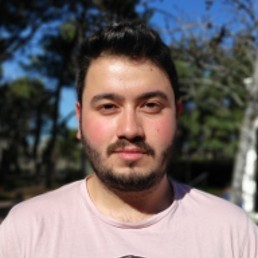
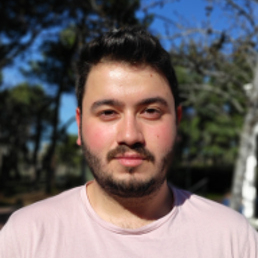
Feat content update 2024 feb 07 (#45)

diff --git a/content/en/team/_index.md b/content/en/team/_index.md
@@ -15,16 +15,17 @@ hero:
 
 ## Visiting and Former Members
 
-- Pablo González Martínez – MSc student in Bioinformatics (ISCIII) since May 2023. **Ongoing**.
-- Marcos Rubio Fernández – MSc student in Bioinformatics (ISCIII) since May 2023. **Ongoing**.
-- David Cáceres Gallardo – Visitor (Hospital 12 de Octubre) since 2023. **Ongoing**.
-- Gabriel Piedrafita Fernández – Visiting researcher (UCM) since 2019. **Ongoing**.
-- Carlos Carretero – Visitor PhD student (Hospital 12 de Octubre, UAM) since 2017. **Ongoing**.
-- María González Bermejo – BSc Biochemistry (UAM) – MSc student in Bioinformatics (UAM) since 2023. **Ongoing**.
-- Angela Surya – Summer student from June 2023 to August 2023.
+- José Manuel Lamas Pérez – MSc student in Artificial Inteligence (UPM) since February 2024. **Ongoing**
+- Gabriel Piedrafita Fernández – Visiting researcher (UCM) since 2019. **Ongoing**
+- Carlos Carretero – Visitor PhD student (Hospital Universitario 12 de Octubre, UAM) since 2017. **Ongoing**
+- Marcos Rubio Fernández – MSc student in Bioinformatics (ISCIII) from May 2023 to January 2024 – Currently in the Hospital Universitario 12 de Octubre
+- Pablo González Martínez – MSc student in Bioinformatics (ISCIII) from May 2023 to January 2024 – Currently in the Bioinformatics Unit at CNIO
+- María González Bermejo – BSc Biochemistry (UAM) – MSc student in Bioinformatics (UAM) from September 2023 to January 2024 – Currently in the Bioinformatics Unit at CNIO
+- David Cáceres Gallardo – Visitor (Hospital 12 de Octubre) from March 2023 to September 2023 – Currently in the Cancer Immunity Group at CNIO
+- Angela Surya – Summer student from June 2023 to August 2023
 - Ester Arroba Hidalgo – Bioinformatician from February 2023 to June 2023 – Currently in Hereditary Endocrine Cancer Group at CNIO 
-- Laura Martínez Gómez – MSc student in Bioinformatics (ISCIII) from September 2017 to January 2018 and PhD student (UAM) from January 2018 to May 2023 – Currently in Fujitsu Research
-- Fernando Pozo – PhD student (UAM) from September 2017 to October 2022 - Currently in Spika Tech
+- Laura Martínez Gómez – MSc student in Bioinformatics (ISCIII) from September 2017 to January 2018 – PhD student (UAM) from January 2018 to May 2023 – Currently in Fujitsu Research
+- Fernando Pozo – PhD student (UAM) from September 2017 to October 2022 – Currently in Spika Tech
 - Coral Fustero-Torre – Bioinformatician from December 2015 to July 2022 and MSc student in Bioinformatics (UAM) 2017 – Currently in the Berlin Institute of Health
 - Olaya De Dios Huerta – MSc student in Bioinformatics (ISCIII) from May 2021 to February 2023
 - Osvaldo Graña Castro, PhD – Bioinformatician from May 2006 to August 2022 – Currently in Universidad CEU San Pablo
@@ -32,15 +33,15 @@ hero:
 - Carlos León Ramos – MSc student in Bioinformatics (ISCIII), 2021
 - Lourdes González Rivera – MSc student in Bioinformatics (ISCIII), 2021
 - Vadym Ivanchuk – MSc student in Biomedical Engineering (UPM) from February 2021 to June 2021
-- Agustín García Sánchez – MSc student in Bioinformatics (ISCIII) from July 2020 to Dec 2020
+- Agustín García Sánchez – MSc student in Bioinformatics (ISCIII) from July 2020 to December 2020
 - Thomas Anthony Walsh, PhD – Postdoc from November 2019 to May 2021 – Currently at the European Bioinformatics Institute (EMBL-EBI)
 - Ruth Álvarez Díaz – MSc student in Bioinformatics (ISCIII) from July 2020 to January 2021 – Currently in the Bioinformatics Unit at CNIO
 - Luis García Jimeno –  MSc student in Bioinformatics (UAM) from October 2019 to July 2020 – Currently in NIM Genetics
 - Santiago García – MSc student in Bioinformatics (ISCIII), 2019 – Currently in the Bioinformatics Unit at CNIO
 - José Antonio López Martín MD, PhD – Visitor (Hospital 12 de Octubre), July 2019
 - Javier Perales Patón – PhD student (UAM) from March 2014 to December 2019
-- Manuel Moradiellos – BSc student Biology (UAM) – Summer student, July 2018 and August 2019 - Currently in the Computational Cancer Genomics at CNIO
-- Maria José Jiménez – MSc student in Bioinformatics (UAM) 2018 – Currently in the Bioinformatics Unit at CNIO
+- Manuel Moradiellos – BSc student Biology (UAM) – Summer student, July 2018 and August 2019 - Currently in the Computational Cancer Genomics Group at CNIO
+- Maria José Jiménez – MSc student in Bioinformatics (UAM), 2018 – Currently in the Bioinformatics Unit at CNIO
 - Diana De La Iglesia, PhD – Bioinformatician from 2018 to 2019
 - Alfonso Esteban Lasso – MSc student in Bioinformatics (UOC) from November 2018 to May 2019
 - Hector Tejero Franco, PhD – Postdoc from 2013 to 2019

diff --git a/content/en/publications/2024.md b/content/en/publications/2024.md
@@ -15,6 +15,11 @@ hero:
 autonumbering: true
 ---
 
+#### Roadmap for a European cancer data management and precision medicine infrastructure
+Nikolski M, Hovig E, **Al-Shahrour F**, Blomberg N, Scollen S, Valencia A, Saunders G.  
+***Nat Cancer***. 2024 Feb 6. doi: 10.1038/s43018-023-00717-6  
+PMID: [38321342](https://pubmed.ncbi.nlm.nih.gov/38321342/)
+
 #### The efficacy of chemotherapy is limited by intratumoral senescent cells expressing PD-L2
 Chaib S, López-Domínguez JA, Lalinde-Gutiérrez M, Prats N, Marin I, Boix O, García-Garijo A, Meyer K, Muñoz MI, Aguilera M, Mateo L, Stephan-Otto Attolini C, Llanos S, Pérez-Ramos S, Escorihuela M, **Al-Shahrour F**, Cash TP, Tchkonia T, Kirkland JL, Abad M, Gros A, Arribas J, Serrano M.  
 ***Nat Cancer***. 2024 Jan 24. doi: 10.1038/s43018-023-00712-x  

diff --git a/content/en/team/mmaquedano.md b/content/en/team/mmaquedano.md
@@ -1,0 +1,17 @@
+---
+title: 'Miguel Maquedano Tirado'
+linktitle: 'Maquedano'
+draft: false
+weight: 2
+thumbnail: 'images/team/thumbnails/Maquedano_Miguel.jpg'
+image: 'images/team/Maquedano_Miguel.jpg'
+jobtitle: 'PhD Student'
+links:
+  - url: 'https://orcid.org/0009-0001-2460-4429'
+    label: ORCID
+    icon: "fab fa-orcid"
+---
+
+- Bsc in Biology (Autonomous University of Madrid)
+- MSc in Bioinformatics and Computational Biology (Autonomous University of Madrid)
+- In the Bioinformatics Unit since January 2024

diff --git a/content/en/team/pagonzalez.md b/content/en/team/pagonzalez.md
@@ -1,0 +1,17 @@
+---
+title: 'Pablo González Martínez'
+linktitle: 'González'
+draft: false
+weight: 2
+thumbnail: 'images/team/thumbnails/Gonzalez_Pablo.jpg'
+image: 'images/team/Gonzalez_Pablo.jpg'
+jobtitle: 'Bioinformatician'
+links:
+  - url: 'https://www.linkedin.com/in/pablo-gonz%C3%A1lez-mart%C3%ADnez-803590230'
+    label: LinkedIn
+    icon: "fab fa-linkedin"
+---
+
+- Bsc in Biology (Complutense University of Madrid)
+- MSc in Bioinformatics (ISCIII)
+- In the Bioinformatics Unit since December 2023

diff --git a/content/en/team/mgonzalezb.md b/content/en/team/mgonzalezb.md
@@ -1,0 +1,13 @@
+---
+title: 'María González Bermejo'
+linktitle: 'González'
+draft: false
+weight: 2
+thumbnail: 'images/team/thumbnails/Gonzalez_Maria.jpg'
+image: 'images/team/Gonzalez_Maria.jpg'
+jobtitle: 'PhD Student'
+---
+
+- BSc in Biochemistry (Autonomous University of Madrid)
+- MSc in Bioinformatics and Computational Biology (Autonomous University of Madrid)
+- In the Bioinformatics Unit since January 2024

diff --git a/content/en/team/falshahrour.md b/content/en/team/falshahrour.md
@@ -3,7 +3,7 @@ title: 'Fátima Al-Shahrour'
 linktitle: 'Al-Shahrour'
 draft: false
 weight: 1
-thumbnail: 'images/team/thumbnails/Al-Shahrour_Fatima.jpeg'
+thumbnail: 'images/team/thumbnails/Al-Shahrour_Fatima.jpg'
 image: 'images/team/Al-Shahrour_Fatima.jpeg'
 jobtitle: 'Head of the Bioinformatics Unit'
 links:

diff --git a/content/en/team/ggomez.md b/content/en/team/ggomez.md
@@ -3,7 +3,7 @@ title: 'Gonzalo Gómez López'
 linktitle: 'Gomez'
 draft: false
 weight: 2
-thumbnail: 'images/team/thumbnails/Gomez_Gonzalo.png'
+thumbnail: 'images/team/thumbnails/Gomez_Gonzalo.jpg'
 image: 'images/team/Gomez_Gonzalo.png'
 jobtitle: 'Computational Biologist'
 links:

diff --git a/content/en/team/epineiro.md b/content/en/team/epineiro.md
@@ -3,7 +3,7 @@ title: 'Elena Piñeiro-Yáñez'
 linktitle: 'Piñeiro'
 draft: false
 weight: 2
-thumbnail: 'images/team/thumbnails/Pineiro_Elena.png'
+thumbnail: 'images/team/thumbnails/Pineiro_Elena.jpg'
 image: 'images/team/Pineiro_Elena.png'
 jobtitle: 'Bioinformatician'
 links:

diff --git a/content/en/team/dcarrero.md b/content/en/team/dcarrero.md
@@ -3,7 +3,7 @@ title: 'Dido Carrero Muñiz'
 linktitle: 'Carrero'
 draft: false
 weight: 2
-thumbnail: 'images/team/thumbnails/Carrero_Dido.jpeg'
+thumbnail: 'images/team/thumbnails/Carrero_Dido.jpg'
 image: 'images/team/default.jpg'
 jobtitle: 'Postdoctoral Fellow'
 links:

diff --git a/content/en/team/ralvarezd.md b/content/en/team/ralvarezd.md
@@ -3,7 +3,7 @@ title: 'Ruth Álvarez Díaz'
 linktitle: 'Alvarez'
 draft: false
 weight: 2
-thumbnail: 'images/team/thumbnails/Alvarez_Ruth.png'
+thumbnail: 'images/team/thumbnails/Alvarez_Ruth.jpg'
 image: 'images/team/default.jpg'
 jobtitle: 'Bioinformatician'
 links:
